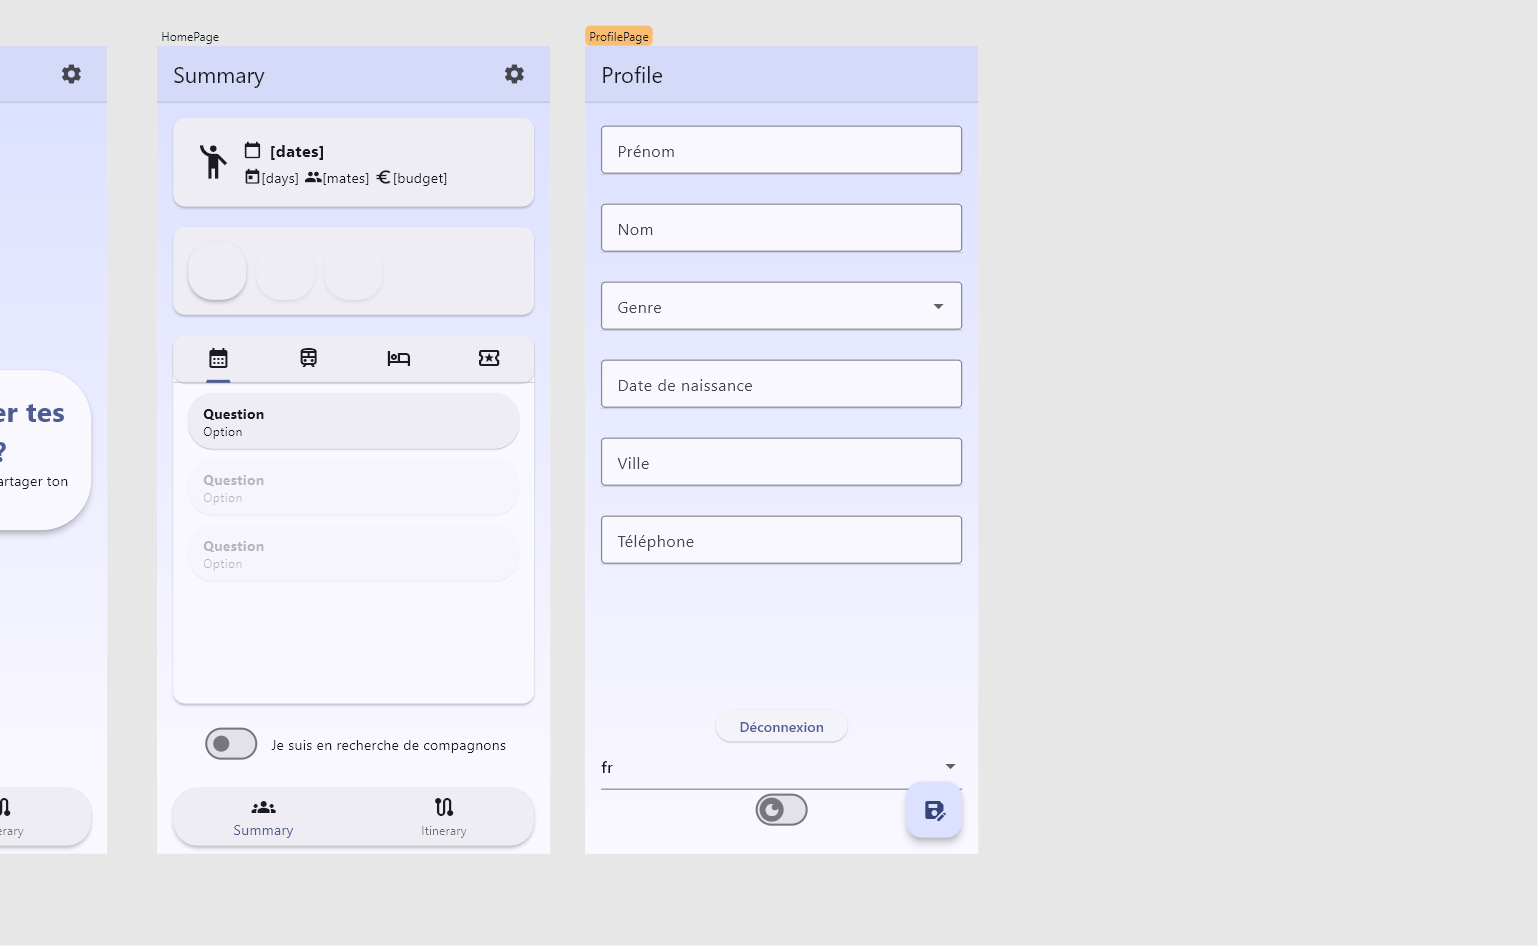
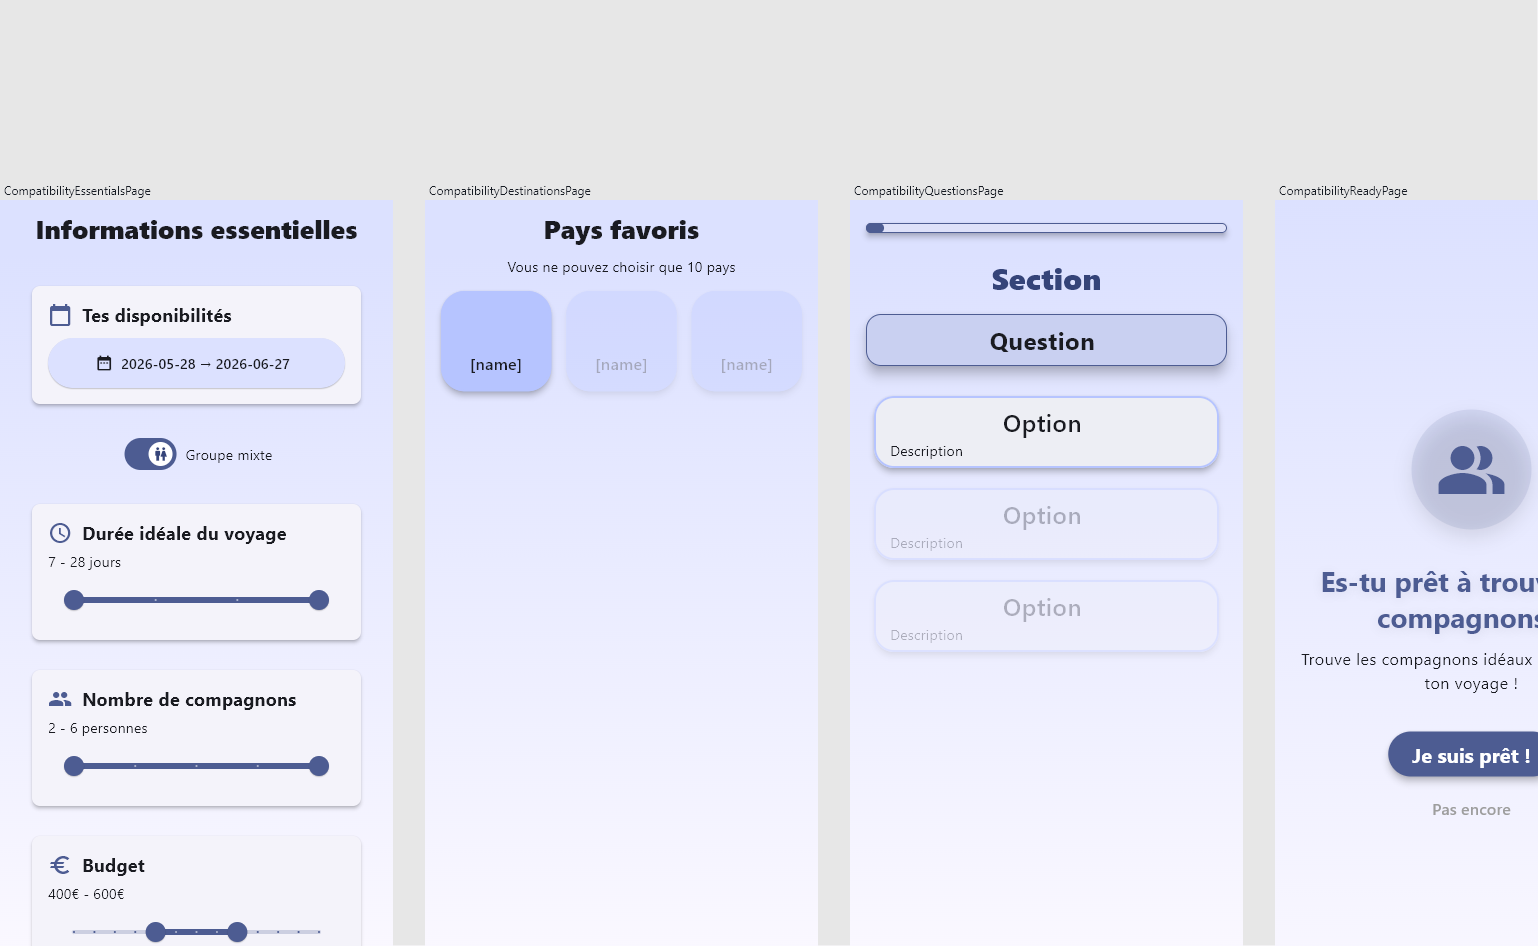
✨ Add gender mix criteria for groups in database and in frontend

diff --git a/lib/pages/compatibility_essentials_page.dart b/lib/pages/compatibility_essentials_page.dart
@@ -32,6 +32,8 @@ class _CompatibilityEssentialsPageState
 
   bool? visible = true;
 
+  bool? unigender = false;
+
   @override
   void initState() {
     visible = false;
@@ -199,6 +201,41 @@ class _CompatibilityEssentialsPageState
                                   ],
                                 ),
                               ),
+                            ),
+                          ),
+                          FlexSizedBox(
+                            width: double.infinity,
+                            height: null,
+                            flex: 1,
+                            child: Row(
+                              spacing: 5.0,
+                              mainAxisSize: MainAxisSize.min,
+                              mainAxisAlignment: MainAxisAlignment.center,
+                              crossAxisAlignment: CrossAxisAlignment.center,
+                              children: [
+                                FlexSizedBox(
+                                  width: null,
+                                  height: null,
+                                  child: Switch(
+                                    value: !unigender!,
+                                    onChanged: (value) {
+                                      unigender = !value;
+                                      setState(() {});
+                                    },
+                                    thumbIcon:
+                                        const WidgetStatePropertyAll<Icon?>(
+                                          Icon(Icons.wc),
+                                        ),
+                                  ),
+                                ),
+                                FlexSizedBox(
+                                  width: null,
+                                  height: null,
+                                  child: Text(
+                                    LocaleState.of(context).l10n.mixed_gender,
+                                  ),
+                                ),
+                              ],
                             ),
                           ),
                           FlexSizedBox(
@@ -403,6 +440,7 @@ class _CompatibilityEssentialsPageState
                   days: _toInt4Range(days),
                   mates: _toInt4Range(mates),
                   budget: _toInt4Range(budget),
+                  unigender: unigender,
                 ),
               )
               .then(

diff --git a/lib/models/compatibility_model.dart b/lib/models/compatibility_model.dart
@@ -11,6 +11,7 @@ class CompatibilityModel {
     this.days,
     this.mates,
     this.budget,
+    this.unigender,
     this.ready = false,
     this.complete = false,
   });
@@ -25,6 +26,7 @@ class CompatibilityModel {
       days: json['days'],
       mates: json['mates'],
       budget: json['budget'],
+      unigender: json['unigender'],
       ready: json['ready'] ?? false,
       complete: json['complete'] ?? false,
     );
@@ -43,6 +45,8 @@ class CompatibilityModel {
   final String? mates;
 
   final String? budget;
+  
+  final bool? unigender;
 
   final bool? ready;
 
@@ -58,6 +62,7 @@ class CompatibilityModel {
       'days': days,
       'mates': mates,
       'budget': budget,
+      'unigender': unigender,
       'ready': ready,
       'complete': complete,
     };

diff --git a/lib/models/groups_model.dart b/lib/models/groups_model.dart
@@ -10,6 +10,7 @@ class GroupsModel {
     this.days,
     this.mates,
     this.budget,
+    this.unigender,
   });
 
   @NowaGenerated({'loader': 'auto-from-json'})
@@ -21,6 +22,7 @@ class GroupsModel {
       days: json['days'],
       mates: json['mates'],
       budget: json['budget'],
+      unigender: json['unigender'],
     );
   }
 
@@ -35,6 +37,8 @@ class GroupsModel {
   final String? mates;
 
   final String? budget;
+  
+  final bool? unigender;
 
   @NowaGenerated({'loader': 'auto-to-json'})
   Map<String, dynamic> toJson() {
@@ -45,6 +49,7 @@ class GroupsModel {
       'days': days,
       'mates': mates,
       'budget': budget,
+      'unigender': unigender,
     };
   }
 }

diff --git a/lib/i18n/app_localizations_en.dart b/lib/i18n/app_localizations_en.dart
@@ -399,6 +399,11 @@ class AppLocalizationsEn extends AppLocalizations {
   }
 
   @override
+  String get mixed_gender {
+    return 'Mixed-gender group';
+  }
+
+  @override
   String welcome(String name) {
     return 'Welcome, ${name}!';
   }

diff --git a/lib/i18n/app_localizations_fr.dart b/lib/i18n/app_localizations_fr.dart
@@ -399,6 +399,11 @@ class AppLocalizationsFr extends AppLocalizations {
   }
 
   @override
+  String get mixed_gender {
+    return 'Groupe mixte';
+  }
+
+  @override
   String welcome(String name) {
     return 'Bienvenue, ${name} !';
   }

diff --git a/lib/i18n/app_localizations.dart b/lib/i18n/app_localizations.dart
@@ -164,6 +164,8 @@ abstract class AppLocalizations {
 
   String get itinerary;
 
+  String get mixed_gender;
+
   static final Map<String, AppLocalizations> _registered = {
     'fr': AppLocalizationsFr(),
     'en': AppLocalizationsEn(),
